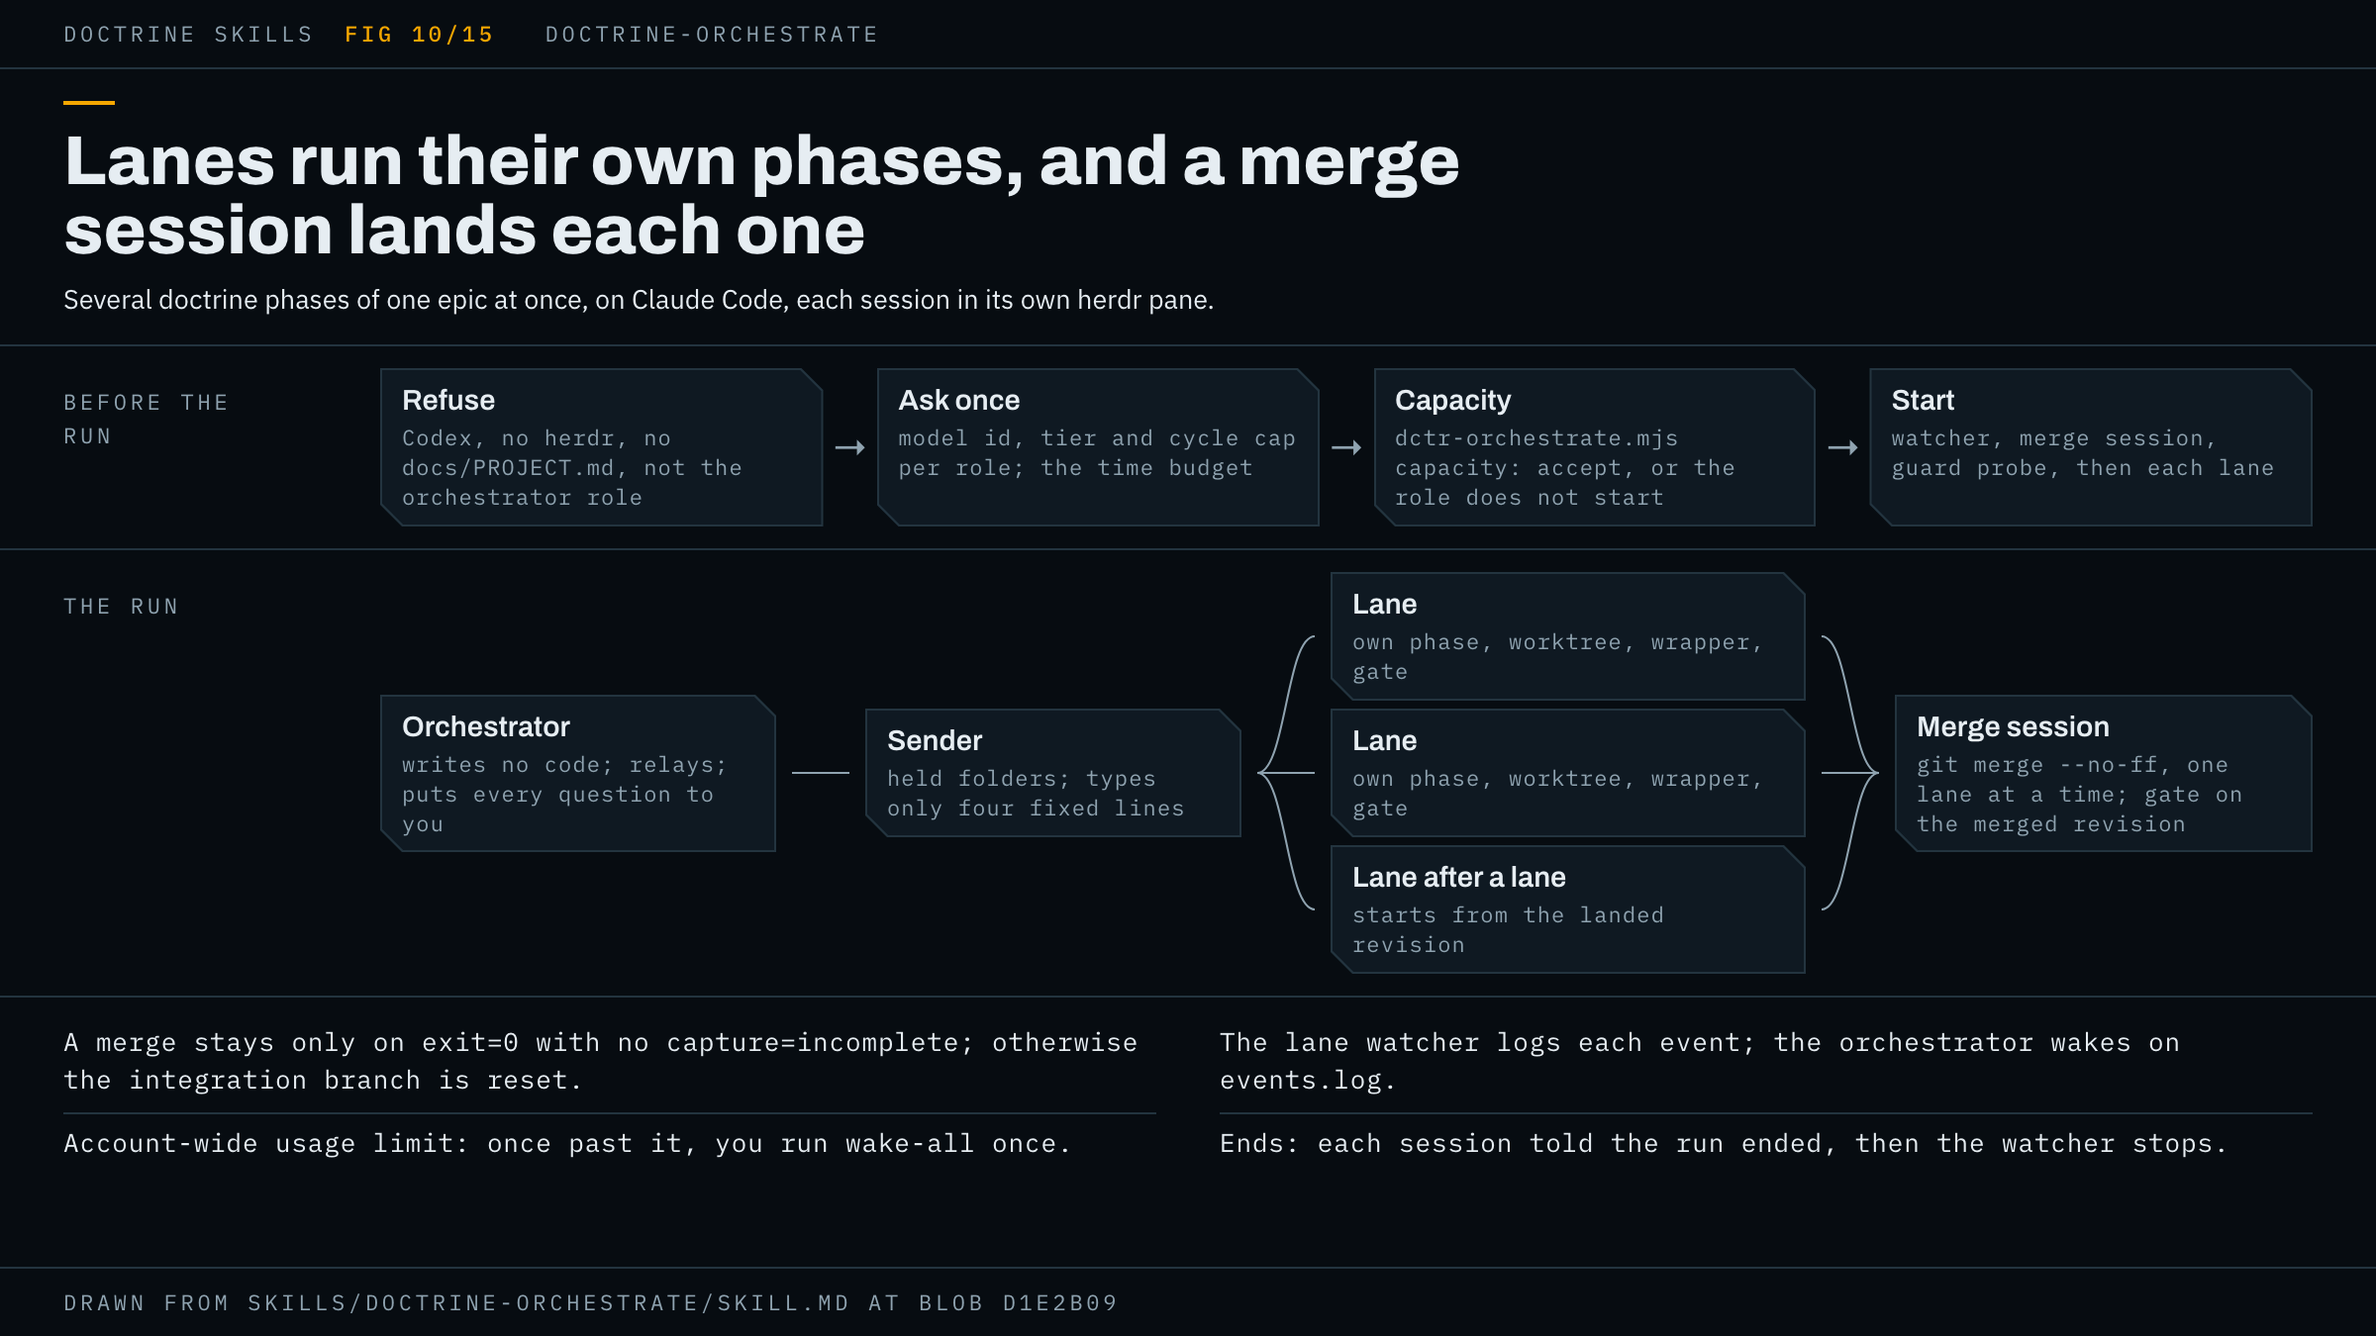
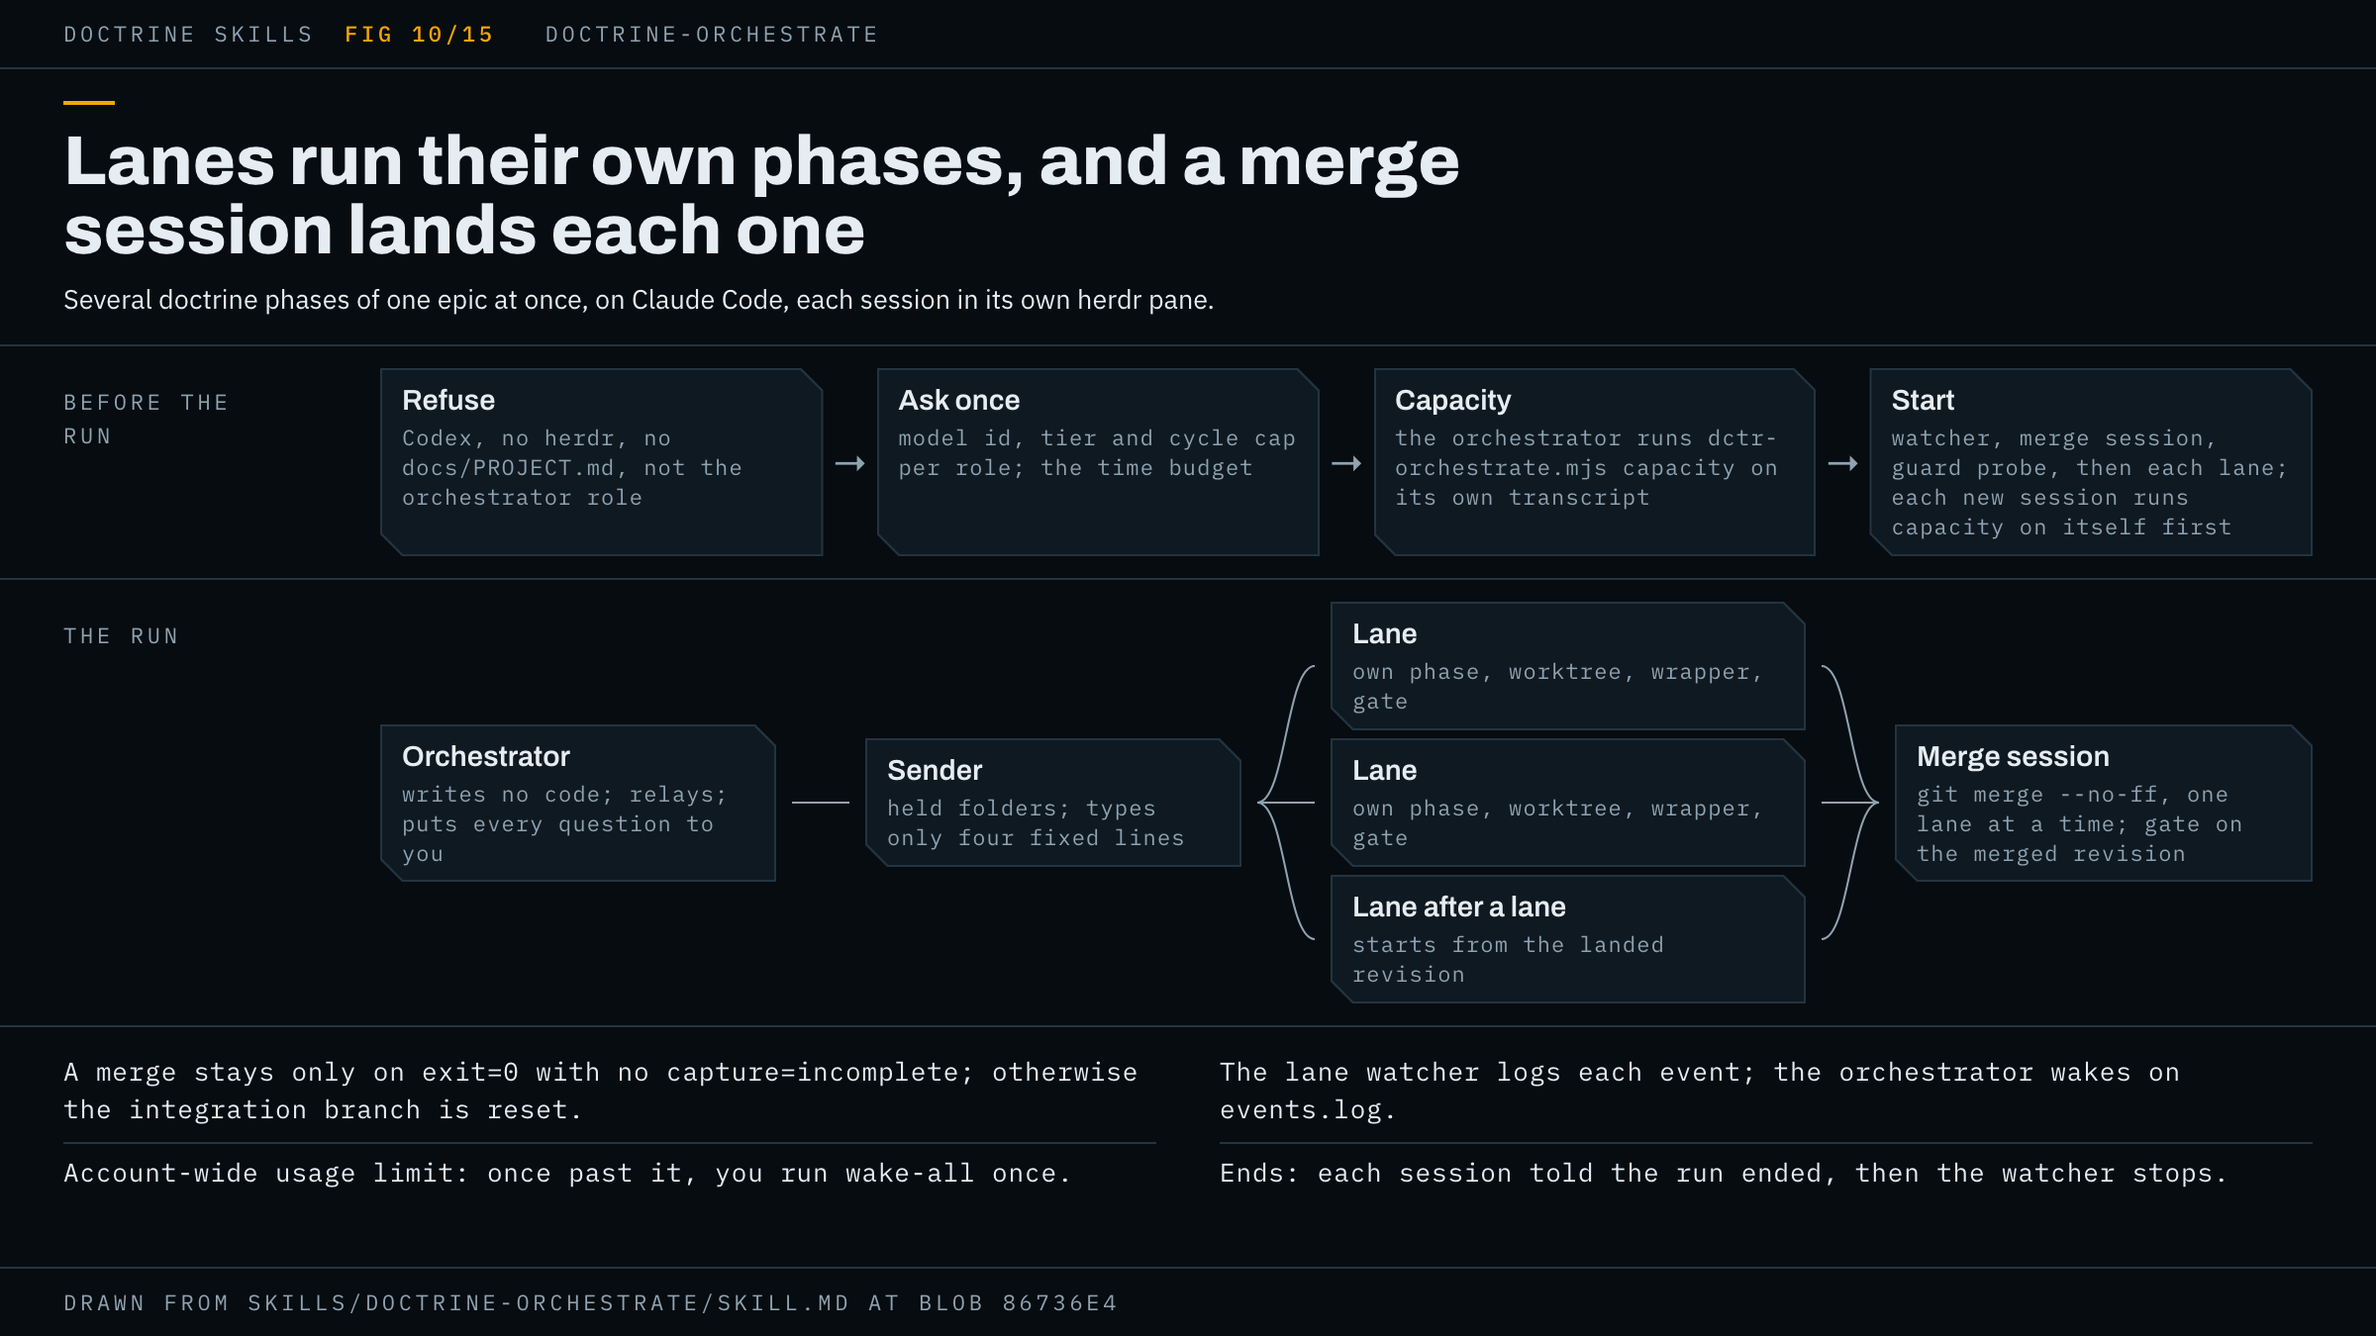
The orchestrate page, its figure and the scripts table describe the two-argument capacity command each role runs on its own transcript

diff --git a/docs/skills/figures/doctrine-orchestrate.html b/docs/skills/figures/doctrine-orchestrate.html
@@ -4,7 +4,7 @@
 <html lang="en">
 <head>
 <meta charset="utf-8">
-<meta name="drawn-from" content="skills/doctrine-orchestrate/SKILL.md@d1e2b0903d31385b2e1a6183cced7bd6f019e12c">
+<meta name="drawn-from" content="skills/doctrine-orchestrate/SKILL.md@86736e40a47d70eb3549b174a55b2d47eb418222">
 <title>Figure: doctrine-orchestrate</title>
 <link rel="stylesheet" href="figure.css">
 </head>
@@ -23,9 +23,9 @@
     <div class="arrow">→</div>
     <div class="box"><b>Ask once</b><span>model id, tier and cycle cap per role; the time budget</span></div>
     <div class="arrow">→</div>
-    <div class="box"><b>Capacity</b><span>dctr-orchestrate.mjs capacity: accept, or the role does not start</span></div>
+    <div class="box"><b>Capacity</b><span>the orchestrator runs dctr-orchestrate.mjs capacity on its own transcript</span></div>
     <div class="arrow">→</div>
-    <div class="box"><b>Start</b><span>watcher, merge session, guard probe, then each lane</span></div>
+    <div class="box"><b>Start</b><span>watcher, merge session, guard probe, then each lane; each new session runs capacity on itself first</span></div>
   </div>
 </section>
 
@@ -53,7 +53,7 @@
   <p>Ends: each session told the run ended, then the watcher stops.</p>
 </section>
 
-<footer class="foot">Drawn from skills/doctrine-orchestrate/SKILL.md at blob d1e2b09</footer>
+<footer class="foot">Drawn from skills/doctrine-orchestrate/SKILL.md at blob 86736e4</footer>
 <script src="figure.js"></script>
 </body>
 </html>

diff --git a/docs/skills/doctrine-orchestrate.md b/docs/skills/doctrine-orchestrate.md
@@ -25,7 +25,7 @@ For one phase, use that phase's own wrapper, such as [doctrine-code](doctrine-co
 
 One question, in one message: the full model id, the tier and the cycle cap for each role (the orchestrator, the merge session and every lane), and the orchestrator's own time budget, which goes into its anchor.
 
-- **The model id** is a full API id such as `claude-opus-5-5`, with `[1m]` appended for the one-million-token context window. The capacity check below refuses an id it does not know.
+- **The model id** is a full API id such as `claude-opus-5-5`, with `[1m]` appended for the one-million-token context window. The capacity check below never reads it.
 - **The tier** is the context use at which the session is warned and hands off to a fresh one: a token count, a percentage such as `60%`, or `default`, which is 60%.
 - **The cycle cap** is how many times the session may clear and resume itself before auto-cycle pauses.
 
@@ -54,7 +54,7 @@ The orchestrator does these, in this order. You run none of them:
 1. Check the orchestrator's branch is its own.
 2. In every repo of the run, run `git check-ignore SESSION_MEMORY.md docs/handoffs/ '<Records>/'`. The orchestrator never edits `.gitignore`, so where a path is not ignored it stops and tells you which path in which repo to add.
 3. Ask you its one question.
-4. Check each role's capacity with `hooks/dctr-orchestrate.mjs capacity '<model id>' <tier> '<transcript path>'`, which prints `accept` or `refuse` with its reasons. It takes the context window from that session's statusline reading where it has one for the same model, and otherwise from the model id: 1,000,000 tokens for a known id ending `[1m]` and 200,000 for a known id without it. A role it refuses does not start, and the refusal comes to you. The orchestrator works out no window, load or margin itself.
+4. Check its own capacity, and no other role's, with `hooks/dctr-orchestrate.mjs capacity <tier> '<transcript path>'`, at its own tier and on its own transcript. The command prints `accept` or `refuse` with its reasons. It takes no model id: the context window is the one the statusline recorded for that session, and with no fresh reading it refuses, says the window is unknown and names the fix. On `refuse` the line comes to you as the orchestrator's next question, and the run takes no further step until the command prints `accept` on its transcript. Every other role runs the command on its own transcript in its first turn, as its brief says below. The orchestrator works out no window, load or margin itself.
 5. Write each role's model id to its model file, which its launch line reads.
 6. Write each lane's and the merge session's tier and cycle cap into that session's first handoff. Each session writes its own `auto-cycle: on` line from it.
 7. Start the lane watcher: `hooks/dctr-lanewatch.mjs start`.
@@ -68,6 +68,7 @@ The orchestrator does these, in this order. You run none of them:
 
 Each lane's first handoff, and the merge session's, opens with a brief that tells the session to:
 
+- Run the capacity command on its own transcript in its first turn, at the tier the handoff gives it, once its resume has made its own reads and before any other work. On `accept` it goes on with its brief. On any other output it sends that output to the orchestrator as a `question` report and does nothing else until a held message tells it what to do.
 - Read its held folder at each resume, before each commit and after each report it sends, and act on what is there.
 - Keep its phase Open until a held message says the run has ended, then write the state its exit gives.
 - Send every question for the owner to the orchestrator as a `question` report, never to the owner directly.
@@ -93,7 +94,7 @@ The lane watcher, `hooks/dctr-lanewatch.mjs`, reads each pane and writes one lin
 
 On every stop caused by an API error, the cycle hook writes a line to `limits.log` naming its kind, `account`, `model` or `other`, and the watcher raises an event for it. No session waits on a reset time.
 
-- **A per-model limit.** You get one question naming the role and a model the capacity command accepts for it. Your answer is recorded in the epic record in your words. The orchestrator writes the new model file at once. You type `/model` in that role's pane yourself without waiting for any report, then tell the orchestrator you have. Only then does it send the role a message, and it wakes the role if the send held its nudge. Where the send prints no `dctr-send: held` line, delivery is unknown and the message is never sent again: the orchestrator looks for it in the role's held folder, goes on as for a held message where it is there, and otherwise runs no wake and puts the sender's output to you as its next question. A wake that prints no `woke` line also comes to you as a question, naming the role and carrying the wake's output, since the wake is then unconfirmed and the role may have no turn on the new model. Where the command refuses the role's tier on the new model, the message tells the role which tier to write. Where it accepts no tier for that model, that comes to you as a question with a model it does accept. On a wake with no `woke` line, and on the relay warning under Messages, this page follows the sender's code, `hooks/dctr-send.mjs`, which is weaker than the SKILL.md's line 73: there the code governs, not the closing line below.
+- **A per-model limit.** You get one question naming the role and the model id the orchestrator recommends. It recommends with no capacity verdict, since the role checks its own capacity once it runs that model. Your answer is recorded in the epic record in your words. The orchestrator writes the new model file at once. You type `/model` in that role's pane yourself without waiting for any report, then tell the orchestrator you have. Only then does it send the role a message, and it wakes the role if the send held its nudge. Where the send prints no `dctr-send: held` line, delivery is unknown and the message is never sent again: the orchestrator looks for it in the role's held folder, goes on as for a held message where it is there, and otherwise runs no wake and puts the sender's output to you as its next question. A wake that prints no `woke` line also comes to you as a question, naming the role and carrying the wake's output, since the wake is then unconfirmed and the role may have no turn on the new model. The message tells the role to run the capacity command as the first step of that turn, at its current tier. Where the role reports a `refuse`, that comes to you as a question with a tier or another model recommended. If you answer with a tier, the role is told to write that tier in its own `auto-cycle: on` line and then run the command at it. If you answer with another model, the switch starts again in the same order. On a wake with no `woke` line, and on the relay warning under Messages, this page follows the sender's code, `hooks/dctr-send.mjs`, which is weaker than the SKILL.md's line 74: there the code governs, not the closing line below.
 - **An account-wide limit.** No model switches and the orchestrator sends and wakes nothing. Once you are past the limit, which the skill calls rolling past it without saying how, run `node <plugin-root>/hooks/dctr-send.mjs wake-all <run>` once from any shell. The lane watcher shows you a notification when the limit stops the run, since the orchestrator is stopped too, and its `limit <role> account` line in `events.log` gives that command with both paths filled in. It wakes every session that stop left idle, the orchestrator among them. Any session it could not wake comes to you as a question, and a pane with no agent is reported for you to restart by hand, never relaunched.
 
 ### The orchestrator's boundary
@@ -118,7 +119,7 @@ Where the project file lives in the code repo, the merge session merges the orch
 
 This example is illustrative: it shows the shape of a run, not a recorded one.
 
-You ask for an epic's three phases to run at once: two independent hook changes, `hooks-a` and `hooks-b`, and a skill change, `skill-a`, that names what `hooks-a` adds. The orchestrator checks the ignore rules, asks its one question, and you give a model id, tier and cap for each role and a four-hour budget. It runs the capacity check for each role, starts the lane watcher, creates the merge session, proves the guard with its probe write, and creates the two hook lanes. The skill lane's Members line carries `after hooks-a merged`. A lane asks a question mid-phase, and it reaches you from the orchestrator. One lane hits a per-model usage limit: you get one question recommending a model, type `/model` in that lane's pane yourself, and tell the orchestrator you have. When `hooks-a`'s merged-revision gate passes, `skill-a` starts from the landed revision. After the last merge passes its gate, each session is told the run has ended and the watcher stops.
+You ask for an epic's three phases to run at once: two independent hook changes, `hooks-a` and `hooks-b`, and a skill change, `skill-a`, that names what `hooks-a` adds. The orchestrator checks the ignore rules, asks its one question, and you give a model id, tier and cap for each role and a four-hour budget. It runs the capacity check on its own session, starts the lane watcher, creates the merge session, proves the guard with its probe write, and creates the two hook lanes. The merge session and each lane run the capacity check on themselves in their first turn. The skill lane's Members line carries `after hooks-a merged`. A lane asks a question mid-phase, and it reaches you from the orchestrator. One lane hits a per-model usage limit: you get one question recommending a model, type `/model` in that lane's pane yourself, and tell the orchestrator you have. When `hooks-a`'s merged-revision gate passes, `skill-a` starts from the landed revision. After the last merge passes its gate, each session is told the run has ended and the watcher stops.
 
 ## How to invoke it
 
@@ -138,7 +139,7 @@ Each of these means the run has left the skill's shape:
 
 - A refusal skipped because the run "obviously" has herdr, or a project file judged present because a run directory was found rather than by reading for `docs/PROJECT.md`.
 - A lane created before the merge session, or after `create merge` refused.
-- A role started on a capacity `refuse`, or a capacity verdict worked out in prose.
+- A role that starts work before its capacity line or carries on after a `refuse`, a capacity command run for a role other than the one running it, or a capacity verdict worked out in prose.
 - The guard probe judged by the Write's error with no `guard.log` line.
 - Text typed into a run session's pane by a session or script other than the four fixed lines, or `/model` typed by anyone but you.
 - A session woken by hand after an account-wide stop instead of by `wake-all`, or a model switched for one.

diff --git a/docs/what-runs.md b/docs/what-runs.md
@@ -38,7 +38,7 @@ The agent runs these as commands when a skill tells it to. The skill named besid
 | `dctr-token.mjs` | `doctrine`, step 5; `doctrine-project` | Publishes the run's round and gate counters, and the epic and phase, as herdr sidebar tokens ([watching a run](watching-a-run.md)). Outside herdr it does nothing. It writes no file. |
 | `dctr-pane.mjs` | `doctrine-pane` | Opens an interactive login (ssh, a console, a log tail) under `script(1)` and bash in a pane you can watch and take over, and lets the agent read it and type into it. It refuses outside herdr and in a container. |
 | `dctr-project.mjs` | `doctrine-project`, `doctrine-orchestrate` | `check` validates `docs/PROJECT.md` and the epic records offline. `status` prints what they show. `board` overwrites the records folder's `board.md`. Only `status` calls herdr, and only inside herdr. |
-| `dctr-orchestrate.mjs` | `doctrine-orchestrate` | `capacity`: says whether one role of the run, the orchestrator, a lane or the merge session, may start: its resume load plus the handoff's cost must fall below its auto-cycle tier, and the tier must fit its context window. It reads the role's transcript and the statusline bridge, or takes the window from the model id, and writes nothing. It refuses a model id missing from its fixed list, even with a bridge reading. |
+| `dctr-orchestrate.mjs` | `doctrine-orchestrate` | `capacity`: says whether one role of the run, the orchestrator, a lane or the merge session, may go on: its resume load plus the handoff's cost must fall below its auto-cycle tier, and the tier must fit its context window. Each role runs it on its own transcript. It reads that transcript and the statusline bridge's reading for the session, takes no model id, and writes nothing. With no fresh reading it refuses and says the window is unknown. |
 | `dctr-lane.mjs` | `doctrine-orchestrate` | Makes each lane's git worktree change: `create`, `reset`, `archive` and `remove`. `create` also opens the lane's herdr tab and starts its session with `claude`. Only the orchestrator may run it, and each success appends a line to the run's `lane.log`. It needs git. |
 | `dctr-send.mjs` | `doctrine-orchestrate`, `doctrine-project` | Carries messages between the sessions of an orchestrated run. `send` holds a message for a lane and nudges its pane through herdr. `report` writes to the orchestrator's inbox. `wake` and `wake-all` restart sessions after a usage limit, and `wake` uses git to check that a session's handoff has landed. |
 | `dctr-lanewatch.mjs` | `doctrine-orchestrate` | The lane watcher. It runs in a pane of its own, reads every lane's pane, logs each new fact to the run's `events.log`, and shows a herdr notification for a usage limit or a stalled orchestrator. It never types into a pane. |
